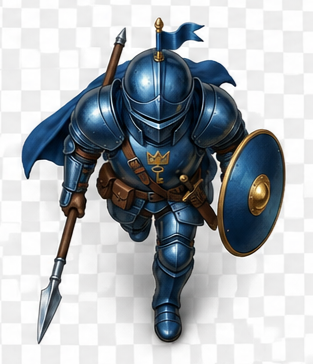
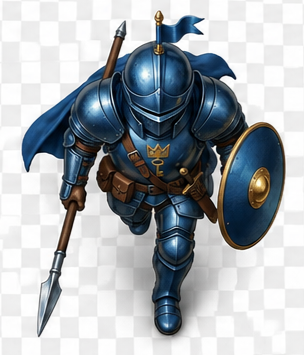
animation 2

Changed region(s): [[0.0592, 0.031, 0.9474, 0.9606], [0.0888, 0.3408, 0.1184, 0.3718]]

diff --git a/basic_elements.py b/basic_elements.py
@@ -17,7 +17,7 @@ class NamedImages:
         """Allow dynamic attribute-style access to images."""
         if name in self.images:
             return self.images[name]
-        raise AttributeError(f"'NamedImages' object has no attribute '{name}'")
+        raise AttributeError("f'NamedImages' object has no attribute '{name}'")
 
 
 @dataclass
@@ -87,8 +87,18 @@ def load_static_ressources():
         "rittergeg7": "ritter_7.png",
         "rittergeg8": "ritter_8.png",
         "rittergeg9": "ritter_9.png",
-        "rittergeg10": "ritter_10.png"
-    }
+        "rittergeg10": "ritter_10.png",
+        "ritter_def1": "ritter_def1.png",
+        "ritter_def2": "ritter_def2.png",
+        "ritter_def3": "ritter_def3.png",
+        "ritter_def4": "ritter_def4.png",
+        "ritter_def5": "ritter_def5.png",
+        "ritter_def6": "ritter_def6.png",
+        "ritter_def7": "ritter_def7.png",
+        "ritter_def8": "ritter_def8.png",
+        "ritter_def9": "ritter_def9.png",
+        "ritter_def10": "ritter_def10.png"
+}
 
     # Load each image dynamically
     for var_name, file_name in images_to_load.items():
@@ -107,5 +117,24 @@ def load_static_ressources():
     ] 
     rittergeg_ani = pyglet.image.Animation.from_image_sequence(images, duration=0.1, loop=True)
     res.images.add_image("rittergeg_ani", rittergeg_ani)
+
+    
+
+    for var_name, file_name in images_to_load.items():
+        load_image(res, var_name, file_name)
+
+    images1 = [res.images.ritter_def10,
+          res.images.ritter_def7,
+          res.images.ritter_def4,
+          res.images.ritter_def1,
+          res.images.ritter_def3,
+          res.images.ritter_def9,
+          res.images.ritter_def5,
+          res.images.ritter_def6,
+          res.images.ritter_def8,
+          res.images.ritter_def9
+    ] 
+    ritterdef_ani = pyglet.image.Animation.from_image_sequence(images1, duration=0.1, loop=True)
+    res.images.add_image("ritterdef_ani", ritterdef_ani)
 
     return res

diff --git a/test.py b/test.py
@@ -11,8 +11,8 @@ res = load_static_ressources()
 spielBatch = pyglet.graphics.Batch()
 sprite = make_image_sprite(0,0,300,300, res.images.rittergeg2, spielBatch)
 
-ani_sprite = make_image_sprite(300, 300, 300, 300, res.images.rittergeg_ani, spielBatch)
-
+ani_sprite = make_image_sprite(300, 300, 500, 500, res.images.rittergeg_ani, spielBatch)
+ani2_sprite = make_image_sprite(700, 300, 500, 500, res.images.ritterdef_ani, spielBatch) 
 
 @game_window.event
 def on_draw():
